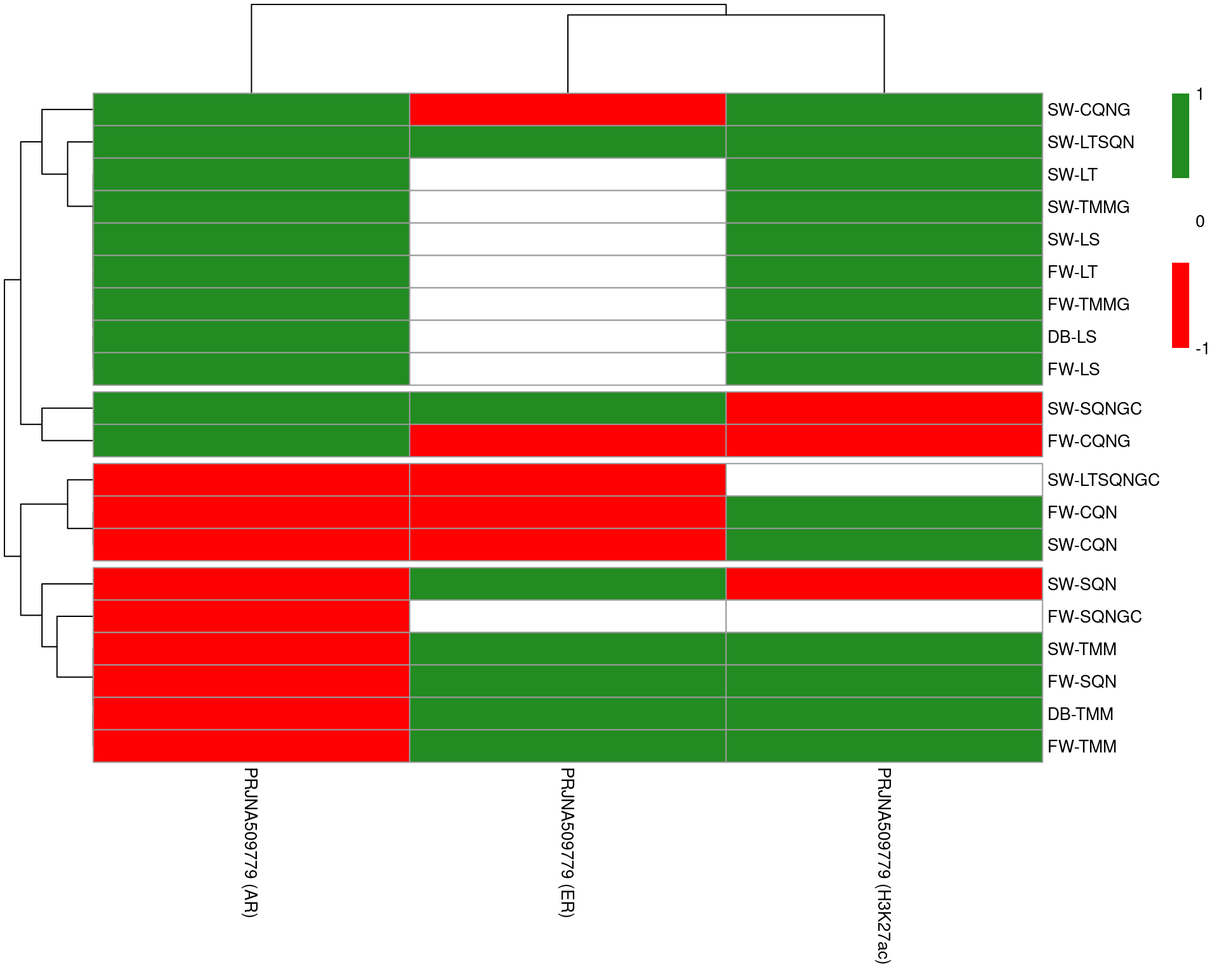
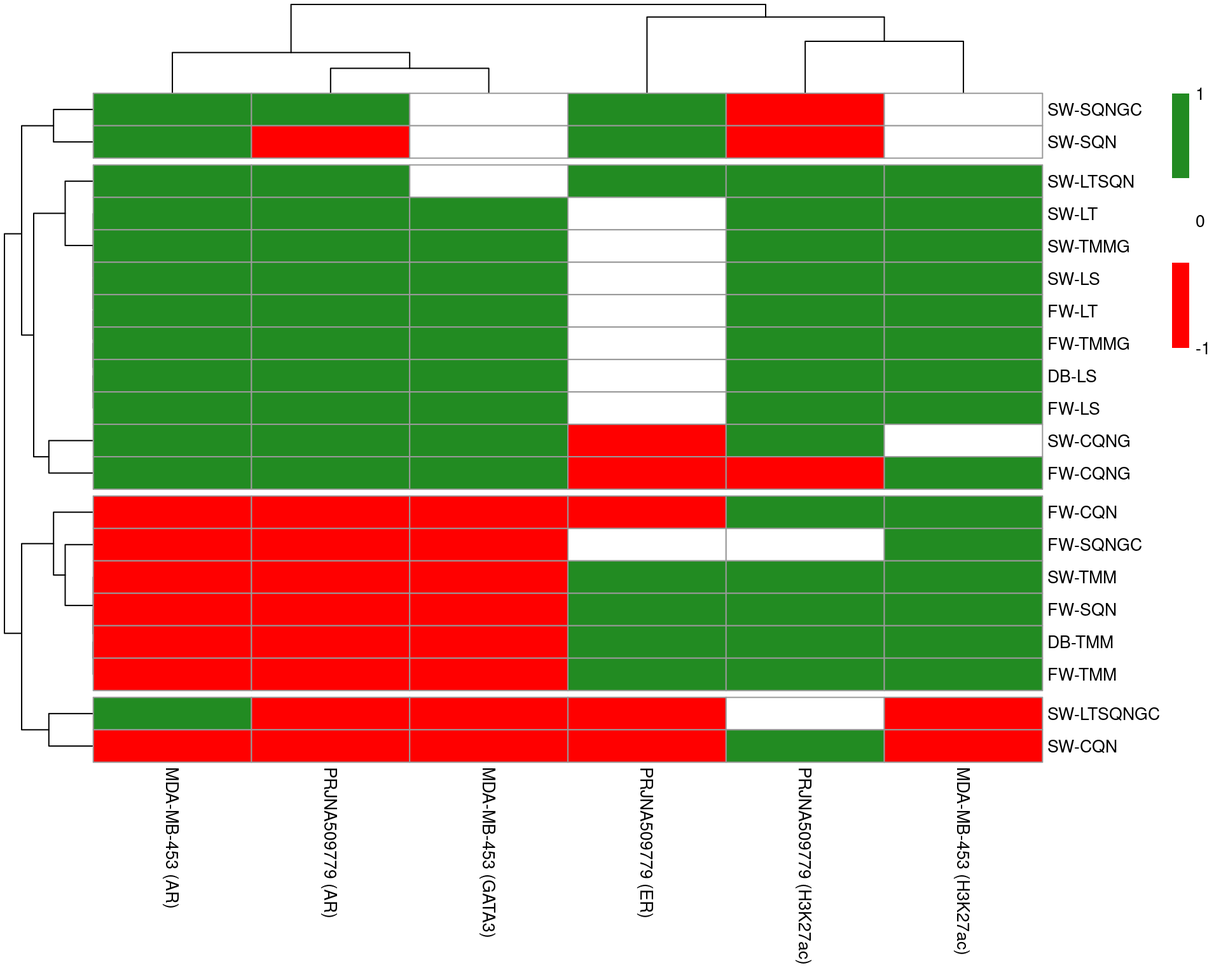
Finished comparison

diff --git a/docs/index.html b/docs/index.html
@@ -284,6 +284,24 @@ $(document).ready(function () {
     </li>
   </ul>
 </li>
+<li class="dropdown">
+  <a href="#" class="dropdown-toggle" data-toggle="dropdown" role="button" data-bs-toggle="dropdown" aria-expanded="false">
+    MDA-MB-453
+     
+    <span class="caret"></span>
+  </a>
+  <ul class="dropdown-menu" role="menu">
+    <li>
+      <a href="mdamb453_ar.html">AR</a>
+    </li>
+    <li>
+      <a href="mdamb453_gata3.html">GATA3</a>
+    </li>
+    <li>
+      <a href="mdamb453_h3k27ac.html">H3K27ac</a>
+    </li>
+  </ul>
+</li>
       </ul>
       <ul class="nav navbar-nav navbar-right">
         
@@ -333,7 +351,7 @@ aria-hidden="true"></span> </a>
 <div class="tab-content">
 <div id="summary" class="tab-pane fade in active">
 <p>
-<strong>Last updated:</strong> 2023-07-09
+<strong>Last updated:</strong> 2023-07-12
 </p>
 <p>
 <strong>Checks:</strong> <span
@@ -467,15 +485,15 @@ project makes it easier to run your code on other machines.</p>
 <div class="panel panel-default">
 <div class="panel-heading">
 <p class="panel-title">
-<a data-toggle="collapse" data-parent="#workflowr-checks" href="#strongRepositoryversionstrongahrefhttpsgithubcomsmpedcomparediffsignaltree53f469b518b583dfb6a60eeece4bf218803dcc3ctargetblank53f469ba">
+<a data-toggle="collapse" data-parent="#workflowr-checks" href="#strongRepositoryversionstrongahrefhttpsgithubcomsmpedcomparediffsignaltreed7ff31bf27dc47b0f78b7e290c8d45374e6a5755targetblankd7ff31ba">
 <span class="glyphicon glyphicon-ok text-success"
 aria-hidden="true"></span> <strong>Repository version:</strong>
-<a href="https://github.com/smped/compare_diffsignal/tree/53f469b518b583dfb6a60eeece4bf218803dcc3c" target="_blank">53f469b</a>
+<a href="https://github.com/smped/compare_diffsignal/tree/d7ff31bf27dc47b0f78b7e290c8d45374e6a5755" target="_blank">d7ff31b</a>
 </a>
 </p>
 </div>
 <div
[2 lines of base64/hex data omitted]
 class="panel-collapse collapse">
 <div class="panel-body">
 <p>
@@ -485,7 +503,7 @@ reproducibility.
 </p>
 <p>
 The results in this page were generated with repository version
-<a href="https://github.com/smped/compare_diffsignal/tree/53f469b518b583dfb6a60eeece4bf218803dcc3c" target="_blank">53f469b</a>.
+<a href="https://github.com/smped/compare_diffsignal/tree/d7ff31bf27dc47b0f78b7e290c8d45374e6a5755" target="_blank">d7ff31b</a>.
 See the <em>Past versions</em> tab to see a history of the changes made
 to the R Markdown and HTML files.
 </p>
@@ -504,6 +522,7 @@ Ignored files:
     Ignored:    .Rproj.user/
 
 Unstaged changes:
+    Modified:   README.md
     Modified:   analysis/index.Rmd
 
 </code></pre>
@@ -549,6 +568,40 @@ Message
 </tr>
 </thead>
 <tbody>
+<tr>
+<td>
+Rmd
+</td>
+<td>
+<a href="https://github.com/smped/compare_diffsignal/blob/7867b4bd58f3e5996989d58d92dd3a8891b23a8c/analysis/index.Rmd" target="_blank">7867b4b</a>
+</td>
+<td>
+Stevie Ped
+</td>
+<td>
+2023-07-09
+</td>
+<td>
+Updated notes
+</td>
+</tr>
+<tr>
+<td>
+html
+</td>
+<td>
+<a href="https://rawcdn.githack.com/smped/compare_diffsignal/7867b4bd58f3e5996989d58d92dd3a8891b23a8c/docs/index.html" target="_blank">7867b4b</a>
+</td>
+<td>
+Stevie Ped
+</td>
+<td>
+2023-07-09
+</td>
+<td>
+Updated notes
+</td>
+</tr>
 <tr>
 <td>
 Rmd
@@ -970,6 +1023,12 @@ between counts and total library sizes.</p>
 <td align="left">H3K27ac</td>
 <td align="left">E2, E2DHT</td>
 </tr>
+<tr class="even">
+<td align="left">MDA-MB-453</td>
+<td align="left">MDA-MB-453</td>
+<td align="left">AR</td>
+<td align="left">Veh, DHT</td>
+</tr>
 </tbody>
 </table>
 <p>The key <strong>defining features</strong> underlining this selection
@@ -982,6 +1041,7 @@ approximately the same levels of signal between conditions, and like AR,
 should produce ‘narrow’ binding regions</li>
 <li>H3K27ac will be far broader peaks than either AR or ER<span
 class="math inline">\(\alpha\)</span></li>
+<li>GATA3 may be shifted from the cytoplasm to the nucleus by AR</li>
 </ul>
 </div>
 <div id="peak-definitions" class="section level2">
@@ -1008,8 +1068,8 @@ H3K27ac</li>
 <p>A <a href="https://github.com/workflowr/workflowr">workflowr</a>
 project.</p>
 </div>
-<div id="conclusion" class="section level2">
-<h2>Conclusion</h2>
+<div id="analysis" class="section level2">
+<h2>Analysis</h2>
 <p>Each method was given a score for each dataset, representing (-1) Not
 Recommended, (0) Viable But Lacking in some characteristic such as
 statistical power, and (1) for Recommended. Any suggestion of spurious
@@ -1072,6 +1132,45 @@ scores &lt;- tibble(
       paste(&quot;SW&quot;, c(&quot;TMMG&quot;, &quot;CQNG&quot;, &quot;LTSQN&quot;, &quot;CQN&quot;, &quot;TMM&quot;, &quot;LS&quot;, &quot;LT&quot;), sep = &quot;-&quot;)
     ) ~ 1,
     TRUE ~ 0
+  ),
+  `MDA-MB-453 (AR)` = case_when(
+    method %in% c(
+      paste(&quot;DB&quot;, c(&quot;TMM&quot;), sep = &quot;-&quot;), 
+      paste(&quot;FW&quot;, c(&quot;SQN&quot;, &quot;SQNGC&quot;, &quot;TMM&quot;, &quot;CQN&quot;), sep = &quot;-&quot;),
+      paste(&quot;SW&quot;, c(&quot;CQN&quot;, &quot;TMM&quot;), sep = &quot;-&quot;)
+    ) ~ -1,
+    method %in% c(
+      paste(&quot;DB&quot;, c(&quot;LS&quot;), sep = &quot;-&quot;), 
+      paste(&quot;FW&quot;, c(&quot;CQNG&quot;, &quot;TMMG&quot;, &quot;LS&quot;, &quot;LT&quot;), sep = &quot;-&quot;),
+      paste(&quot;SW&quot;, c(&quot;CQNG&quot;, &quot;TMMG&quot;, &quot;LTSQN&quot;, &quot;SQN&quot;, &quot;SQNGC&quot;, &quot;LTSQNGC&quot;, &quot;LS&quot;, &quot;LT&quot;), sep = &quot;-&quot;)
+    ) ~ 1,
+    TRUE ~ 0
+  ),
+  `MDA-MB-453 (GATA3)` = case_when(
+    method %in% c(
+      paste(&quot;DB&quot;, c(&quot;TMM&quot;), sep = &quot;-&quot;), 
+      paste(&quot;FW&quot;, c(&quot;TMM&quot;, &quot;CQN&quot;, &quot;SQNGC&quot;, &quot;SQN&quot;), sep = &quot;-&quot;),
+      paste(&quot;SW&quot;, c(&quot;CQN&quot;, &quot;TMM&quot;, &quot;LTSQNGC&quot;), sep = &quot;-&quot;)
+    ) ~ -1,
+    method %in% c(
+      paste(&quot;DB&quot;, c(&quot;LS&quot;), sep = &quot;-&quot;), 
+      paste(&quot;FW&quot;, c(&quot;LS&quot;, &quot;LT&quot;, &quot;TMMG&quot;, &quot;CQNG&quot;), sep = &quot;-&quot;),
+      paste(&quot;SW&quot;, c(&quot;LS&quot;, &quot;TMMG&quot;, &quot;CQNG&quot;, &quot;LT&quot;), sep = &quot;-&quot;)
+    ) ~ 1,
+    TRUE ~ 0
+  ),
+  `MDA-MB-453 (H3K27ac)` = case_when(
+    method %in% c(
+      paste(&quot;DB&quot;, c(), sep = &quot;-&quot;), 
+      paste(&quot;FW&quot;, c(), sep = &quot;-&quot;),
+      paste(&quot;SW&quot;, c(&quot;CQN&quot;, &quot;LTSQNGC&quot;), sep = &quot;-&quot;)
+    ) ~ -1,
+    method %in% c(
+      paste(&quot;DB&quot;, c(&quot;LS&quot;, &quot;TMM&quot;), sep = &quot;-&quot;), 
+      paste(&quot;FW&quot;, c(&quot;LS&quot;, &quot;TMM&quot;, &quot;TMMG&quot;, &quot;CQN&quot;, &quot;CQNG&quot;, &quot;SQN&quot;, &quot;SQNGC&quot;, &quot;LT&quot;), sep = &quot;-&quot;),
+      paste(&quot;SW&quot;, c(&quot;LS&quot;, &quot;TMM&quot;, &quot;TMMG&quot;, &quot;CQNGC&quot;, &quot;LT&quot;, &quot;LTSQN&quot;), sep = &quot;-&quot;)
+    ) ~ 1,
+    TRUE ~ 0
   )
 ) %&gt;% 
   mutate(
@@ -1107,7 +1206,10 @@ scores &lt;- tibble(
       normalisation = colDef(name = &quot;Norm.&quot;, footer = &quot;&quot;),
       &quot;PRJNA509779 (AR)&quot; = colDef(name = &quot;AR&quot;, maxWidth = 60, show = FALSE),
       &quot;PRJNA509779 (ER)&quot; = colDef(name = &quot;ER&quot;, maxWidth = 60, show = FALSE),
-      &quot;PRJNA509779 (H3K27ac)&quot; = colDef(name = &quot;H3K27ac&quot;, show = FALSE)
+      &quot;PRJNA509779 (H3K27ac)&quot; = colDef(name = &quot;H3K27ac&quot;, show = FALSE),
+      &quot;MDA-MB-453 (AR)&quot; = colDef(name = &quot;AR&quot;, maxWidth = 60, show = FALSE),
+      &quot;MDA-MB-453 (GATA3)&quot; = colDef(name = &quot;AR&quot;, maxWidth = 60, show = FALSE),
+      &quot;MDA-MB-453 (H3K27ac)&quot; = colDef(name = &quot;AR&quot;, maxWidth = 60, show = FALSE)
     ),
     # columnGroups = list(
     #   colGroup(name = &quot;PRJNA509779&quot;, columns = str_subset(names(.), &quot;PRJNA509779&quot;))
@@ -1155,7 +1257,7 @@ div(
 </caption>
 </div>
 <div class="reactable html-widget html-fill-item-overflow-hidden html-fill-item" id="htmlwidget-6fcc80c2eefb60548f1d" style="width:auto;height:auto;"></div>
-<script type="application/json" data-for="htmlwidget-6fcc80c2eefb60548f1d">{"x":{"tag":{"name":"Reactable","attribs":{"data":{"method":["SW-LTSQN","DB-LS","FW-LS","FW-TMMG","FW-LT","SW-LS","SW-TMMG","SW-LT","DB-TMM","FW-TMM","FW-SQN","SW-TMM","SW-CQNG","SW-SQNGC","FW-CQN","FW-CQNG","FW-SQNGC","SW-CQN","SW-SQN","SW-LTSQNGC"],"windows":["Sliding","Fixed-Width","Fixed-Width","Fixed-Width","Fixed-Width","Sliding","Sliding","Sliding","Fixed-Width","Fixed-Width","Fixed-Width","Sliding","Sliding","Sliding","Fixed-Width","Fixed-Width","Fixed-Width","Sliding","Sliding","Sliding"],"package":["extraChIPs","DiffBind","extraChIPs","extraChIPs","extraChIPs","extraChIPs","extraChIPs","extraChIPs","DiffBind","extraChIPs","extraChIPs","extraChIPs","extraChIPs","extraChIPs","extraChIPs","extraChIPs","extraChIPs","extraChIPs","extraChIPs","extraChIPs"],"model":["limma-trend","glmQLF","glmQLF","glmQLF","limma-trend","glmQLF","glmQLF","limma-trend","glmQLF","glmQLF","glmQLF","glmQLF","glmQLF","glmQLF","glmQLF","glmQLF","glmQLF","glmQLF","glmQLF","limma-trend"],"normalisation":["SQN","LS","LS","TMM","LS","LS","TMM","LS","TMM","TMM","SQN","TMM","CQN","SQN-GC","CQN","CQN","SQN-GC","CQN","SQN","SQN-GC"],"groups":["Explicit","None","None","Explicit","None","None","Explicit","None","None","None","Explicit","None","Explicit","Explicit","None","Explicit","Explicit","None","Explicit","Explicit"],"score":[3,2,2,2,2,2,2,2,1,1,1,1,1,1,-1,-1,-1,-1,-1,-2],"PRJNA509779 (AR)":[1,1,1,1,1,1,1,1,-1,-1,-1,-1,1,1,-1,1,-1,-1,-1,-1],"PRJNA509779 (ER)":[1,0,0,0,0,0,0,0,1,1,1,1,-1,1,-1,-1,0,-1,1,-1],"PRJNA509779 (H3K27ac)":[1,1,1,1,1,1,1,1,1,1,1,1,1,-1,1,-1,0,1,-1,0]},"columns":[{"id":"method","name":"Method","type":"character","footer":{"name":"b","attribs":{},"children":["All Methods"]},"maxWidth":150,"style":[{"color":"black","fontize":10},{"color":"black","fontize":10},{"color":"black","fontize":10},{"color":"black","fontize":10},{"color":"black","fontize":10},{"color":"black","fontize":10},{"color":"black","fontize":10},{"color":"black","fontize":10},{"color":"black","fontize":10},{"color":"black","fontize":10},{"color":"black","fontize":10},{"color":"black","fontize":10},{"color":"black","fontize":10},{"color":"black","fontize":10},{"color":"black","fontize":10},{"color":"black","fontize":10},{"color":"black","fontize":10},{"color":"black","fontize":10},{"color":"black","fontize":10},{"color":"black","fontize":10}]},{"id":"windows","name":"Windows","type":"character","footer":"","maxWidth":110,"style":[{"color":"black","fontize":10},{"color":"black","fontize":10},{"color":"black","fontize":10},{"color":"black","fontize":10},{"color":"black","fontize":10},{"color":"black","fontize":10},{"color":"black","fontize":10},{"color":"black","fontize":10},{"color":"black","fontize":10},{"color":"black","fontize":10},{"color":"black","fontize":10},{"color":"black","fontize":10},{"color":"black","fontize":10},{"color":"black","fontize":10},{"color":"black","fontize":10},{"color":"black","fontize":10},{"color":"black","fontize":10},{"color":"black","fontize":10},{"color":"black","fontize":10},{"color":"black","fontize":10}]},{"id":"package","name":"Package","type":"character","footer":"","maxWidth":110,"style":[{"color":"black","fontize":10},{"color":"black","fontize":10},{"color":"black","fontize":10},{"color":"black","fontize":10},{"color":"black","fontize":10},{"color":"black","fontize":10},{"color":"black","fontize":10},{"color":"black","fontize":10},{"color":"black","fontize":10},{"color":"black","fontize":10},{"color":"black","fontize":10},{"color":"black","fontize":10},{"color":"black","fontize":10},{"color":"black","fontize":10},{"color":"black","fontize":10},{"color":"black","fontize":10},{"color":"black","fontize":10},{"color":"black","fontize":10},{"color":"black","fontize":10},{"color":"black","fontize":10}]},{"id":"model","name":"Model","type":"character","footer":"","maxWidth":110,"style":[{"color":"black","fontize":10},{"color":"black","fontize":10},{"color":"black","fontize":10},{"color":"black","fontize":10},{"color":"black","fontize":10},{"color":"black","fontize":10},{"color":"black","fontize":10},{"color":"black","fontize":10},{"color":"black","fontize":10},{"color":"black","fontize":10},{"color":"black","fontize":10},{"color":"black","fontize":10},{"color":"black","fontize":10},{"color":"black","fontize":10},{"color":"black","fontize":10},{"color":"black","fontize":10},{"color":"black","fontize":10},{"color":"black","fontize":10},{"color":"black","fontize":10},{"color":"black","fontize":10}]},{"id":"normalisation","name":"Norm.","type":"character","footer":"","maxWidth":100,"style":[{"color":"black","fontize":10},{"color":"black","fontize":10},{"color":"black","fontize":10},{"color":"black","fontize":10},{"color":"black","fontize":10},{"color":"black","fontize":10},{"color":"black","fontize":10},{"color":"black","fontize":10},{"color":"black","fontize":10},{"color":"black","fontize":10},{"color":"black","fontize":10},{"color":"black","fontize":10},{"color":"black","fontize":10},{"color":"black","fontize":10},{"color":"black","fontize":10},{"color":"black","fontize":10},{"color":"black","fontize":10},{"color":"black","fontize":10},{"color":"black","fontize":10},{"color":"black","fontize":10}]},{"id":"groups","name":"Groups","type":"character","footer":"","maxWidth":110,"style":[{"color":"black","fontize":10},{"color":"black","fontize":10},{"color":"black","fontize":10},{"color":"black","fontize":10},{"color":"black","fontize":10},{"color":"black","fontize":10},{"color":"black","fontize":10},{"color":"black","fontize":10},{"color":"black","fontize":10},{"color":"black","fontize":10},{"color":"black","fontize":10},{"color":"black","fontize":10},{"color":"black","fontize":10},{"color":"black","fontize":10},{"color":"black","fontize":10},{"color":"black","fontize":10},{"color":"black","fontize":10},{"color":"black","fontize":10},{"color":"black","fontize":10},{"color":"black","fontize":10}]},{"id":"score","name":"Score","type":"numeric","footer":"","maxWidth":60,"style":[{"color":"black","fontize":10},{"color":"black","fontize":10},{"color":"black","fontize":10},{"color":"black","fontize":10},{"color":"black","fontize":10},{"color":"black","fontize":10},{"color":"black","fontize":10},{"color":"black","fontize":10},{"color":"black","fontize":10},{"color":"black","fontize":10},{"color":"black","fontize":10},{"color":"black","fontize":10},{"color":"black","fontize":10},{"color":"black","fontize":10},{"color":"red","fontize":10},{"color":"red","fontize":10},{"color":"red","fontize":10},{"color":"red","fontize":10},{"color":"red","fontize":10},{"color":"red","fontize":10}]},{"id":"PRJNA509779 (AR)","name":"AR","type":"numeric","footer":{"name":"b","attribs":{},"children":["2"]},"maxWidth":60,"style":[{"color":"black","fontize":10},{"color":"black","fontize":10},{"color":"black","fontize":10},{"color":"black","fontize":10},{"color":"black","fontize":10},{"color":"black","fontize":10},{"color":"black","fontize":10},{"color":"black","fontize":10},{"color":"red","fontize":10},{"color":"red","fontize":10},{"color":"red","fontize":10},{"color":"red","fontize":10},{"color":"black","fontize":10},{"color":"black","fontize":10},{"color":"red","fontize":10},{"color":"black","fontize":10},{"color":"red","fontize":10},{"color":"red","fontize":10},{"color":"red","fontize":10},{"color":"red","fontize":10}],"show":false},{"id":"PRJNA509779 (ER)","name":"ER","type":"numeric","footer":{"name":"b","attribs":{},"children":["2"]},"maxWidth":60,"style":[{"color":"black","fontize":10},{"color":"black","fontize":10},{"color":"black","fontize":10},{"color":"black","fontize":10},{"color":"black","fontize":10},{"color":"black","fontize":10},{"color":"black","fontize":10},{"color":"black","fontize":10},{"color":"black","fontize":10},{"color":"black","fontize":10},{"color":"black","fontize":10},{"color":"black","fontize":10},{"color":"red","fontize":10},{"color":"black","fontize":10},{"color":"red","fontize":10},{"color":"red","fontize":10},{"color":"black","fontize":10},{"color":"red","fontize":10},{"color":"black","fontize":10},{"color":"red","fontize":10}],"show":false},{"id":"PRJNA509779 (H3K27ac)","name":"H3K27ac","type":"numeric","footer":{"name":"b","attribs":{},"children":["12"]},"maxWidth":100,"style":[{"color":"black","fontize":10},{"color":"black","fontize":10},{"color":"black","fontize":10},{"color":"black","fontize":10},{"color":"black","fontize":10},{"color":"black","fontize":10},{"color":"black","fontize":10},{"color":"black","fontize":10},{"color":"black","fontize":10},{"color":"black","fontize":10},{"color":"black","fontize":10},{"color":"black","fontize":10},{"color":"black","fontize":10},{"color":"red","fontize":10},{"color":"black","fontize":10},{"color":"red","fontize":10},{"color":"black","fontize":10},{"color":"black","fontize":10},{"color":"red","fontize":10},{"color":"black","fontize":10}],"show":false}],"filterable":true,"pagination":false,"dataKey":"c07917b128be7a5a7fe7036ce4c2bd3a"},"children":[]},"class":"reactR_markup"},"evals":[],"jsHooks":[]}</script>
+<script type="application/json" data-for="htmlwidget-6fcc80c2eefb60548f1d">{"x":{"tag":{"name":"Reactable","attribs":{"data":{"method":["DB-LS","FW-LS","FW-TMMG","FW-LT","SW-LS","SW-TMMG","SW-LT","SW-LTSQN","SW-CQNG","FW-CQNG","SW-SQNGC","DB-TMM","FW-TMM","FW-SQN","SW-TMM","SW-SQN","FW-CQN","FW-SQNGC","SW-LTSQNGC","SW-CQN"],"windows":["Fixed-Width","Fixed-Width","Fixed-Width","Fixed-Width","Sliding","Sliding","Sliding","Sliding","Sliding","Fixed-Width","Sliding","Fixed-Width","Fixed-Width","Fixed-Width","Sliding","Sliding","Fixed-Width","Fixed-Width","Sliding","Sliding"],"package":["DiffBind","extraChIPs","extraChIPs","extraChIPs","extraChIPs","extraChIPs","extraChIPs","extraChIPs","extraChIPs","extraChIPs","extraChIPs","DiffBind","extraChIPs","extraChIPs","extraChIPs","extraChIPs","extraChIPs","extraChIPs","extraChIPs","extraChIPs"],"model":["glmQLF","glmQLF","glmQLF","limma-trend","glmQLF","glmQLF","limma-trend","limma-trend","glmQLF","glmQLF","glmQLF","glmQLF","glmQLF","glmQLF","glmQLF","glmQLF","glmQLF","glmQLF","limma-trend","glmQLF"],"normalisation":["LS","LS","TMM","LS","LS","TMM","LS","SQN","CQN","CQN","SQN-GC","TMM","TMM","SQN","TMM","SQN","CQN","SQN-GC","SQN-GC","CQN"],"groups":["None","None","Explicit","None","None","Explicit","None","Explicit","Explicit","Explicit","Explicit","None","None","Explicit","None","Explicit","None","Explicit","Explicit","None"],"score":[5,5,5,5,5,5,5,5,3,2,2,0,0,0,0,0,-2,-2,-3,-4],"PRJNA509779 (AR)":[1,1,1,1,1,1,1,1,1,1,1,-1,-1,-1,-1,-1,-1,-1,-1,-1],"PRJNA509779 (ER)":[0,0,0,0,0,0,0,1,-1,-1,1,1,1,1,1,1,-1,0,-1,-1],"PRJNA509779 (H3K27ac)":[1,1,1,1,1,1,1,1,1,-1,-1,1,1,1,1,-1,1,0,0,1],"MDA-MB-453 (AR)":[1,1,1,1,1,1,1,1,1,1,1,-1,-1,-1,-1,1,-1,-1,1,-1],"MDA-MB-453 (GATA3)":[1,1,1,1,1,1,1,0,1,1,0,-1,-1,-1,-1,0,-1,-1,-1,-1],"MDA-MB-453 (H3K27ac)":[1,1,1,1,1,1,1,1,0,1,0,1,1,1,1,0,1,1,-1,-1]},"columns":[{"id":"method","name":"Method","type":"character","footer":{"name":"b","attribs":{},"children":["All Methods"]},"maxWidth":150,"style":[{"color":"black","fontize":10},{"color":"black","fontize":10},{"color":"black","fontize":10},{"color":"black","fontize":10},{"color":"black","fontize":10},{"color":"black","fontize":10},{"color":"black","fontize":10},{"color":"black","fontize":10},{"color":"black","fontize":10},{"color":"black","fontize":10},{"color":"black","fontize":10},{"color":"black","fontize":10},{"color":"black","fontize":10},{"color":"black","fontize":10},{"color":"black","fontize":10},{"color":"black","fontize":10},{"color":"black","fontize":10},{"color":"black","fontize":10},{"color":"black","fontize":10},{"color":"black","fontize":10}]},{"id":"windows","name":"Windows","type":"character","footer":"","maxWidth":110,"style":[{"color":"black","fontize":10},{"color":"black","fontize":10},{"color":"black","fontize":10},{"color":"black","fontize":10},{"color":"black","fontize":10},{"color":"black","fontize":10},{"color":"black","fontize":10},{"color":"black","fontize":10},{"color":"black","fontize":10},{"color":"black","fontize":10},{"color":"black","fontize":10},{"color":"black","fontize":10},{"color":"black","fontize":10},{"color":"black","fontize":10},{"color":"black","fontize":10},{"color":"black","fontize":10},{"color":"black","fontize":10},{"color":"black","fontize":10},{"color":"black","fontize":10},{"color":"black","fontize":10}]},{"id":"package","name":"Package","type":"character","footer":"","maxWidth":110,"style":[{"color":"black","fontize":10},{"color":"black","fontize":10},{"color":"black","fontize":10},{"color":"black","fontize":10},{"color":"black","fontize":10},{"color":"black","fontize":10},{"color":"black","fontize":10},{"color":"black","fontize":10},{"color":"black","fontize":10},{"color":"black","fontize":10},{"color":"black","fontize":10},{"color":"black","fontize":10},{"color":"black","fontize":10},{"color":"black","fontize":10},{"color":"black","fontize":10},{"color":"black","fontize":10},{"color":"black","fontize":10},{"color":"black","fontize":10},{"color":"black","fontize":10},{"color":"black","fontize":10}]},{"id":"model","name":"Model","type":"character","footer":"","maxWidth":110,"style":[{"color":"black","fontize":10},{"color":"black","fontize":10},{"color":"black","fontize":10},{"color":"black","fontize":10},{"color":"black","fontize":10},{"color":"black","fontize":10},{"color":"black","fontize":10},{"color":"black","fontize":10},{"color":"black","fontize":10},{"color":"black","fontize":10},{"color":"black","fontize":10},{"color":"black","fontize":10},{"color":"black","fontize":10},{"color":"black","fontize":10},{"color":"black","fontize":10},{"color":"black","fontize":10},{"color":"black","fontize":10},{"color":"black","fontize":10},{"color":"black","fontize":10},{"color":"black","fontize":10}]},{"id":"normalisation","name":"Norm.","type":"character","footer":"","maxWidth":100,"style":[{"color":"black","fontize":10},{"color":"black","fontize":10},{"color":"black","fontize":10},{"color":"black","fontize":10},{"color":"black","fontize":10},{"color":"black","fontize":10},{"color":"black","fontize":10},{"color":"black","fontize":10},{"color":"black","fontize":10},{"color":"black","fontize":10},{"color":"black","fontize":10},{"color":"black","fontize":10},{"color":"black","fontize":10},{"color":"black","fontize":10},{"color":"black","fontize":10},{"color":"black","fontize":10},{"color":"black","fontize":10},{"color":"black","fontize":10},{"color":"black","fontize":10},{"color":"black","fontize":10}]},{"id":"groups","name":"Groups","type":"character","footer":"","maxWidth":110,"style":[{"color":"black","fontize":10},{"color":"black","fontize":10},{"color":"black","fontize":10},{"color":"black","fontize":10},{"color":"black","fontize":10},{"color":"black","fontize":10},{"color":"black","fontize":10},{"color":"black","fontize":10},{"color":"black","fontize":10},{"color":"black","fontize":10},{"color":"black","fontize":10},{"color":"black","fontize":10},{"color":"black","fontize":10},{"color":"black","fontize":10},{"color":"black","fontize":10},{"color":"black","fontize":10},{"color":"black","fontize":10},{"color":"black","fontize":10},{"color":"black","fontize":10},{"color":"black","fontize":10}]},{"id":"score","name":"Score","type":"numeric","footer":"","maxWidth":60,"style":[{"color":"black","fontize":10},{"color":"black","fontize":10},{"color":"black","fontize":10},{"color":"black","fontize":10},{"color":"black","fontize":10},{"color":"black","fontize":10},{"color":"black","fontize":10},{"color":"black","fontize":10},{"color":"black","fontize":10},{"color":"black","fontize":10},{"color":"black","fontize":10},{"color":"black","fontize":10},{"color":"black","fontize":10},{"color":"black","fontize":10},{"color":"black","fontize":10},{"color":"black","fontize":10},{"color":"red","fontize":10},{"color":"red","fontize":10},{"color":"red","fontize":10},{"color":"red","fontize":10}]},{"id":"PRJNA509779 (AR)","name":"AR","type":"numeric","footer":{"name":"b","attribs":{},"children":["2"]},"maxWidth":60,"style":[{"color":"black","fontize":10},{"color":"black","fontize":10},{"color":"black","fontize":10},{"color":"black","fontize":10},{"color":"black","fontize":10},{"color":"black","fontize":10},{"color":"black","fontize":10},{"color":"black","fontize":10},{"color":"black","fontize":10},{"color":"black","fontize":10},{"color":"black","fontize":10},{"color":"red","fontize":10},{"color":"red","fontize":10},{"color":"red","fontize":10},{"color":"red","fontize":10},{"color":"red","fontize":10},{"color":"red","fontize":10},{"color":"red","fontize":10},{"color":"red","fontize":10},{"color":"red","fontize":10}],"show":false},{"id":"PRJNA509779 (ER)","name":"ER","type":"numeric","footer":{"name":"b","attribs":{},"children":["2"]},"maxWidth":60,"style":[{"color":"black","fontize":10},{"color":"black","fontize":10},{"color":"black","fontize":10},{"color":"black","fontize":10},{"color":"black","fontize":10},{"color":"black","fontize":10},{"color":"black","fontize":10},{"color":"black","fontize":10},{"color":"red","fontize":10},{"color":"red","fontize":10},{"color":"black","fontize":10},{"color":"black","fontize":10},{"color":"black","fontize":10},{"color":"black","fontize":10},{"color":"black","fontize":10},{"color":"black","fontize":10},{"color":"red","fontize":10},{"color":"black","fontize":10},{"color":"red","fontize":10},{"color":"red","fontize":10}],"show":false},{"id":"PRJNA509779 (H3K27ac)","name":"H3K27ac","type":"numeric","footer":{"name":"b","attribs":{},"children":["12"]},"maxWidth":100,"style":[{"color":"black","fontize":10},{"color":"black","fontize":10},{"color":"black","fontize":10},{"color":"black","fontize":10},{"color":"black","fontize":10},{"color":"black","fontize":10},{"color":"black","fontize":10},{"color":"black","fontize":10},{"color":"black","fontize":10},{"color":"red","fontize":10},{"color":"red","fontize":10},{"color":"black","fontize":10},{"color":"black","fontize":10},{"color":"black","fontize":10},{"color":"black","fontize":10},{"color":"red","fontize":10},{"color":"black","fontize":10},{"color":"black","fontize":10},{"color":"black","fontize":10},{"color":"black","fontize":10}],"show":false},{"id":"MDA-MB-453 (AR)","name":"AR","type":"numeric","footer":{"name":"b","attribs":{},"children":["6"]},"maxWidth":60,"style":[{"color":"black","fontize":10},{"color":"black","fontize":10},{"color":"black","fontize":10},{"color":"black","fontize":10},{"color":"black","fontize":10},{"color":"black","fontize":10},{"color":"black","fontize":10},{"color":"black","fontize":10},{"color":"black","fontize":10},{"color":"black","fontize":10},{"color":"black","fontize":10},{"color":"red","fontize":10},{"color":"red","fontize":10},{"color":"red","fontize":10},{"color":"red","fontize":10},{"color":"black","fontize":10},{"color":"red","fontize":10},{"color":"red","fontize":10},{"color":"black","fontize":10},{"color":"red","fontize":10}],"show":false},{"id":"MDA-MB-453 (GATA3)","name":"AR","type":"numeric","footer":{"name":"b","attribs":{},"children":["1"]},"maxWidth":60,"style":[{"color":"black","fontize":10},{"color":"black","fontize":10},{"color":"black","fontize":10},{"color":"black","fontize":10},{"color":"black","fontize":10},{"color":"black","fontize":10},{"color":"black","fontize":10},{"color":"black","fontize":10},{"color":"black","fontize":10},{"color":"black","fontize":10},{"color":"black","fontize":10},{"color":"red","fontize":10},{"color":"red","fontize":10},{"color":"red","fontize":10},{"color":"red","fontize":10},{"color":"black","fontize":10},{"color":"red","fontize":10},{"color":"red","fontize":10},{"color":"red","fontize":10},{"color":"red","fontize":10}],"show":false},{"id":"MDA-MB-453 (H3K27ac)","name":"AR","type":"numeric","footer":{"name":"b","attribs":{},"children":["13"]},"maxWidth":60,"style":[{"color":"black","fontize":10},{"color":"black","fontize":10},{"color":"black","fontize":10},{"color":"black","fontize":10},{"color":"black","fontize":10},{"color":"black","fontize":10},{"color":"black","fontize":10},{"color":"black","fontize":10},{"color":"black","fontize":10},{"color":"black","fontize":10},{"color":"black","fontize":10},{"color":"black","fontize":10},{"color":"black","fontize":10},{"color":"black","fontize":10},{"color":"black","fontize":10},{"color":"black","fontize":10},{"color":"black","fontize":10},{"color":"black","fontize":10},{"color":"red","fontize":10},{"color":"red","fontize":10}],"show":false}],"filterable":true,"pagination":false,"dataKey":"ac234c07ef818ec3a8ec2e5ca78eaad1"},"children":[]},"class":"reactR_markup"},"evals":[],"jsHooks":[]}</script>
 </div>
 <pre class="r"><code>scores %&gt;% 
   arrange(desc(score)) %&gt;% 
@@ -1211,6 +1313,42 @@ Stevie Ped
 </table>
 </div>
 </div>
+</div>
+<div id="conclusion" class="section level2">
+<h2>Conclusion</h2>
+<p>Some methods clearly stood as being applicable:</p>
+<ul>
+<li>Limma-Trend using logCPM values was appropriate for:
+<ul>
+<li>Fixed Windows</li>
+<li>Sliding Windows (logCPM or SQ-Normalised)</li>
+</ul></li>
+<li>QLF Models were appropriate
+<ul>
+<li>Library Size Normalisation (Fixed or Sliding Windows)</li>
+<li>TMM Normalisation <strong>after testing</strong> for group
+differences (Fixed or Sliding)</li>
+</ul></li>
+</ul>
+<p>Datasets failing a permutation test using <code>quantro</code> using
+raw counts were AR (both datasets) and GATA3. Incorporating a quantro
+test when using TMM will enable this to be applied widely.
+Interestingly, most datasets failed this test when using logCPM values,
+perhaps suggesting this test is too sensitive for this data type, or is
+even misleading</p>
+<p>In addition, H3K27ac appeared to perform more poorly using sliding
+windows. However, the majority of sites ‘lost’ were low signal sites,
+with a number of new sites detected in the middle of the signal range.
+Choosing the optimal method may require careful consideration.</p>
+<p>Thus the final options for GRAVI should be</p>
+<ol style="list-style-type: decimal">
+<li>Fixed-Width: QLF-none, QLF-TMM(+G), LT-none</li>
+<li>Sliding Windows: QLF-none, QLF-TMM(+G), LT-none, LT-SQN</li>
+</ol>
+<p>Previous work has also suggested the <em>limma-trend</em> methods
+lose comparatively more power when applying <em>treat</em> and this
+requires testing. A final comparison of these 7 methods, along with the
+impact of <em>treat</em> is required next.</p>
 <br>
 <p>
 <button type="button" class="btn btn-default btn-workflowr btn-workflowr-sessioninfo" data-toggle="collapse" data-target="#workflowr-sessioninfo" style="display: block;">

diff --git a/docs/site_libs/navigation-1.1/codefolding.js b/docs/site_libs/navigation-1.1/codefolding.js
@@ -31,7 +31,7 @@ window.initializeCodeFolding = function(show) {
     $(this).detach().appendTo(div);
 
     // add a show code button right above
-    var showCodeText = $('<span>' + (showThis ? 'Hide' : 'Code') + '</span>');
+    var showCodeText = $('<span>' + (showThis ? 'Hide' : 'Show') + '</span>');
     var showCodeButton = $('<button type="button" class="btn btn-default btn-xs btn-secondary btn-sm code-folding-btn pull-right float-right"></button>');
     showCodeButton.append(showCodeText);
     showCodeButton
@@ -57,7 +57,7 @@ window.initializeCodeFolding = function(show) {
     //   * Change text
     //   * add a class for intermediate states styling
     div.on('hide.bs.collapse', function () {
-      showCodeText.text('Code');
+      showCodeText.text('Show');
       showCodeButton.addClass('btn-collapsing');
     });
     div.on('hidden.bs.collapse', function () {

diff --git a/README.md b/README.md
@@ -50,6 +50,7 @@ All approaches will be compared across multiple datasets:
 | PRJNA509779 | ZR-75-1   | AR          | E2, E2DHT  |
 | PRJNA509779 | ZR-75-1   | ER$\alpha$  | E2, E2DHT  |
 | PRJNA509779 | ZR-75-1   | H3K27ac     | E2, E2DHT  |
+| MDA-MB-453  | MDA-MB-453 | AR         | Veh, DHT   |
 
 Table: *Cell lines and ChIP targets being analysed*
 
@@ -58,6 +59,7 @@ The key **defining features** underlining this selection are:
 - AR will shift from cytoplasmic to nuclear in response to DHT leading to unbalanced signal
 - ER$\alpha$ should show approximately the same levels of signal between conditions, and like AR, should produce 'narrow' binding regions
 - H3K27ac will be far broader peaks than either AR or ER$\alpha$
+- GATA3 may be shifted from the cytoplasm to the nucleus by AR
 
 ## Peak Definitions
 
